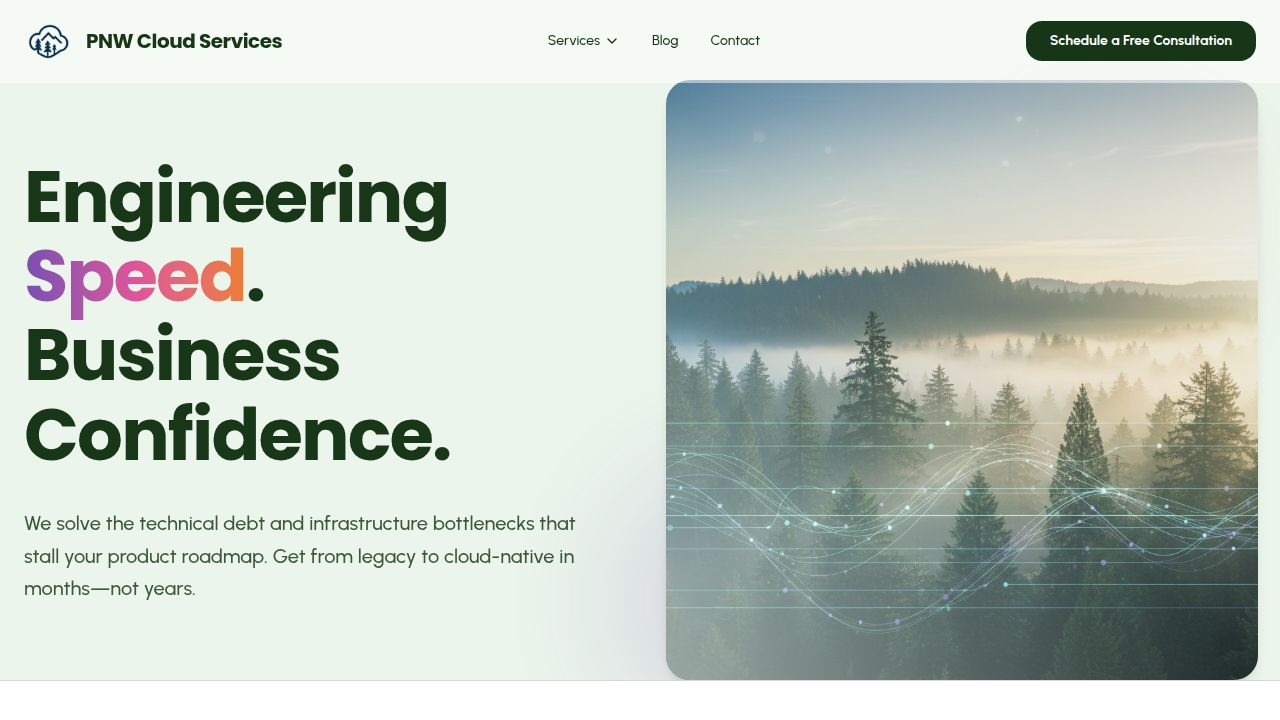
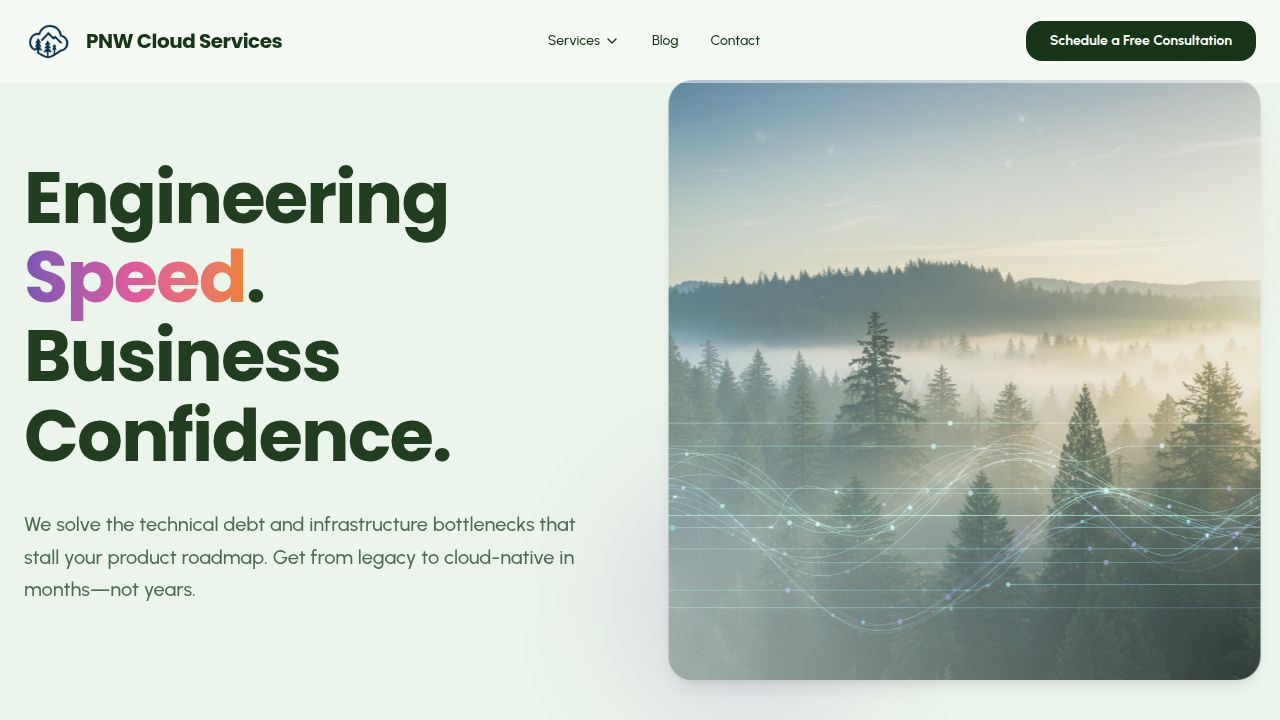
Improve mobile layout for hero section responsiveness
Adjust padding and font sizes in the hero section component (client/src/components/home/hero.tsx) for better mobile display.

Replit-Commit-Author: Agent
Replit-Commit-Session-Id: ad886bd7-96e1-431d-a391-7352132ca2d8
Replit-Commit-Checkpoint-Type: full_checkpoint
Replit-Commit-Event-Id: 19a76747-e02e-4027-95a1-2de7a3850737
Replit-Commit-Screenshot-Url: https://storage.googleapis.com/screenshot-production-us-central1/e0d0b5d5-0989-45e9-a5cc-da82de3c706e/ad886bd7-96e1-431d-a391-7352132ca2d8/x3QrDdm
Replit-Helium-Checkpoint-Created: true

diff --git a/client/src/components/home/hero.tsx b/client/src/components/home/hero.tsx
@@ -2,21 +2,21 @@ import heroImage from "@assets/hero-forest-nature-tech.png";
 
 export function Hero() {
   return (
-    <section className="relative min-h-[90vh] flex items-center pt-20 overflow-hidden bg-background">
-      <div className="container mx-auto px-6 grid lg:grid-cols-2 gap-12 items-center z-10 relative">
+    <section className="relative min-h-screen lg:min-h-[90vh] flex items-center pt-28 pb-12 md:pt-32 lg:pt-20 overflow-hidden bg-background">
+      <div className="container mx-auto px-6 grid lg:grid-cols-2 gap-8 lg:gap-12 items-center z-10 relative">
         
-        <div className="space-y-8 animate-in slide-in-from-bottom-5 duration-1000 fade-in">
-          <h1 className="text-5xl md:text-6xl lg:text-7xl font-bold leading-[1.1] tracking-tight text-primary">
+        <div className="space-y-6 lg:space-y-8 animate-in slide-in-from-bottom-5 duration-1000 fade-in">
+          <h1 className="text-4xl md:text-5xl lg:text-7xl font-bold leading-[1.1] tracking-tight text-primary">
             Engineering <span className="text-gradient-speed">Speed</span>.<br />
             Business Confidence.
           </h1>
           
-          <p className="text-xl text-foreground/90 max-w-xl leading-relaxed font-medium animate-in slide-in-from-bottom-5 duration-1000 delay-200 fade-in">
+          <p className="text-lg md:text-xl text-foreground/90 max-w-xl leading-relaxed font-medium animate-in slide-in-from-bottom-5 duration-1000 delay-200 fade-in">
             We solve the technical debt and infrastructure bottlenecks that stall your product roadmap. Get from legacy to cloud-native in months—not years.
           </p>
         </div>
 
-        <div className="relative h-[400px] lg:h-[600px] w-full animate-in slide-in-from-right-5 duration-1000 delay-200 fade-in">
+        <div className="relative h-[350px] md:h-[400px] lg:h-[600px] w-full animate-in slide-in-from-right-5 duration-1000 delay-200 fade-in">
           <div className="relative rounded-3xl overflow-hidden shadow-lg h-full w-full">
             <img 
               src={heroImage} 
